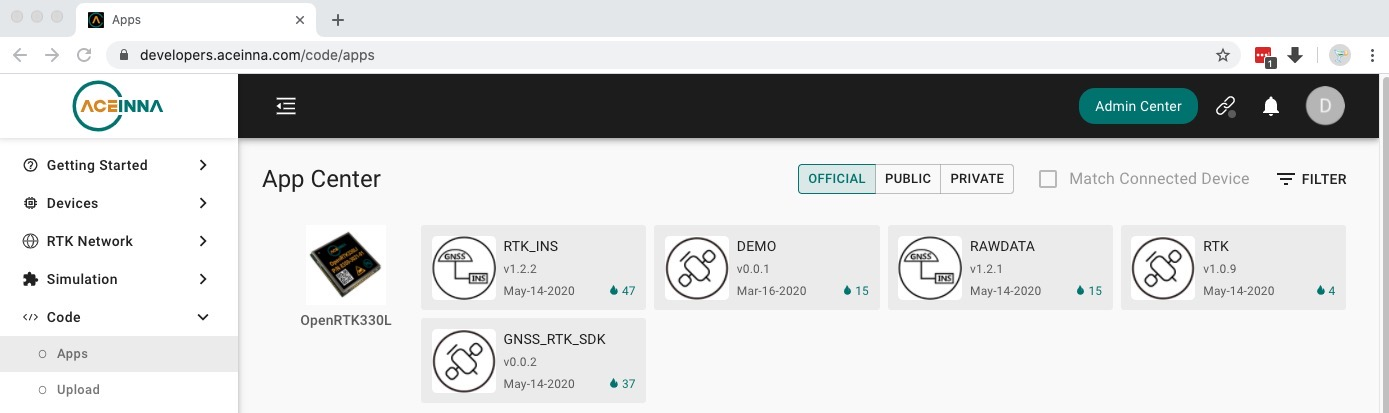
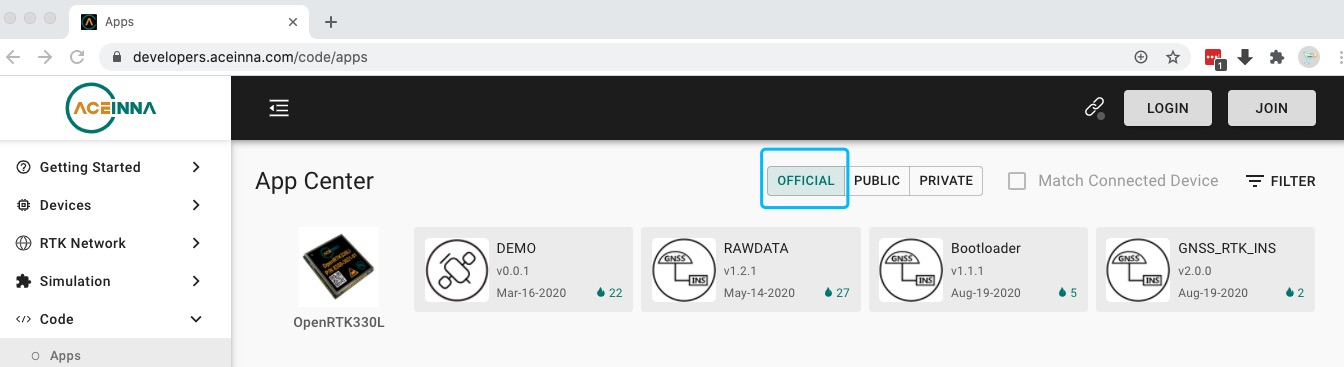
updated firmware upgrade approach to latest 2in1 bin file

diff --git a/firmware_upgrade.rst b/firmware_upgrade.rst
@@ -42,7 +42,7 @@ I. **SAVE BEFORE DEVELOPMENT START**: it's strongly recommended to save your fac
 Firmware Upgrade Online
 ~~~~~~~~~~~~~~~~~~~~~~~~~~~~~~~~~~~~~
 
-**NOTE**: **NO ST-LINK Debugger** is needed to perform firmware upgrade in the procedure below.
+.. **NOTE**: **NO ST-LINK Debugger** is needed to perform firmware upgrade in the procedure below.
 
 .. 2. **Connect** the OpenRTK330 EVB to a PC via a Micro-USB cable, four serial ports are established on your PC as shown below (e.g. on Windows 10), meanwhile the EVB is powered up by this USB connection. In the context of this manual, we refer "COM3" to the FIRST serial port and refer the other three serial ports to the SECOND, THRID and FOURTH serial port in increasing order.
 
@@ -51,15 +51,31 @@ Firmware Upgrade Online
 
 
 
-Go to the online App Center of ANS (click `here <https://developers.aceinna.com/code/apps>`_) to **install/update** the OpenRTK330 module **firmware**, as shown by
+Work with the online **App Center** of ANS (click `here <https://developers.aceinna.com/code/apps>`_) to **install/update** the OpenRTK330 module **firmware**, as shown by
   
   .. figure:: media/download_openrtk330_firmware.png
-          :width: 7.0in
+          :width: 6.5in
           :height: 3.0in
 
-Follow the steps below to upgrade OpenRTK330 firmware:
+**First**, upgrade OpenRTK330LI bootloader (to v1.1.1 and later, Win10 only):
 
-    1. Click `here <https://github.com/Aceinna/python-openimu/releases>`_ to download the latest Python driver, e.g. "pythondriver-win.zip" for Windows 10
+  1. Connect ST-LINK debugger between a PC and the EVB
+
+  2. Use a Micro-USB cable to connect the PC and the EVB and power on the EVB
+
+  3. Download the Bootloader bin file from the App center as shown by the above figure
+
+  4. Open ST Utility software, click Target->Connect, then click Target->Program & Verify, on the pop dialog as shown below, load the downloaded bootloader bin file from step 3, check "Verify while programming" and "Reset after programming", click "Start" button
+
+      .. figure:: media/programming_bootloader.PNG
+            :width: 5.0in
+            :height: 3.5in
+
+  5. Remove ST-LINK debugger from the EVB
+
+**Secondly**, follow the steps below to upgrade OpenRTK330 firmware:
+
+    1. Click `here <https://github.com/Aceinna/python-openimu/releases>`_ to download the latest Python driver (v2.1.6 and later), e.g. "pythondriver-win.zip" for Windows 10
 
     2. Unzip the Python driver on a PC, and run the excutable file "ans-devices.exe" in a command line, e.g. 
       .. code-block:: python
@@ -73,8 +89,8 @@ Follow the steps below to upgrade OpenRTK330 firmware:
       * The python driver keeps scanning available serial ports to connect with OpenRTK330, if connected successfully, you will see the following console output
 
           .. figure:: media/python_driver_connects.PNG
-            :width: 6.0in
-            :height: 1.0in
+            :width: 7.0in
+            :height: 3.0in
 
       * On the above App Center webpage, click "GNSS_RTK_INS" App, and then click the highlighted "UPGRADE" button, the YELLOW LED stops blinking and the GREEN LED starts blinking quickly 
       
@@ -117,12 +133,12 @@ The previous section demonstrates the firmware installation process for OpenRTK3
     * Embedding your own RTK/INS algorithms, refer to `Firmware Build from Source <https://openrtk.readthedocs.io/en/latest/build_firmware.html>`_ 
 
 
-  * RTK APP - with GNSS RTK algorithm
+  .. * RTK APP - with GNSS RTK algorithm
 
-    * 10 Hz raw GNSS data output in RTCMv3 format
-    * Configurable rate (50, 100, and 200 Hz) of raw IMU data output 
-    * GNSS RTK position, velocity and accuracy metrics output
-    * Logging the raw data and RTK solution to file, refer to `How to Use OpenRTK330 <https://openrtk.readthedocs.io/en/latest/useOpenRTK.html>`_
+    .. * 10 Hz raw GNSS data output in RTCMv3 format
+    ..* Configurable rate (50, 100, and 200 Hz) of raw IMU data output 
+    ..* GNSS RTK position, velocity and accuracy metrics output
+    ..* Logging the raw data and RTK solution to file, refer to `How to Use OpenRTK330 <https://openrtk.readthedocs.io/en/latest/useOpenRTK.html>`_
 
   * RTK_INS APP - with GNSS RTK and INS integrated algorithm
 
